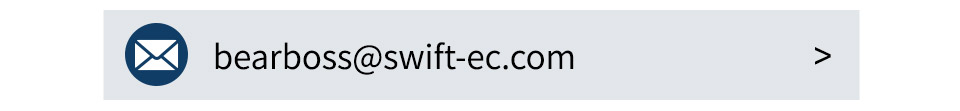
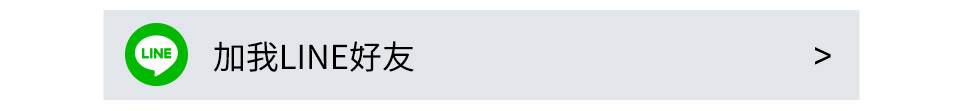
加LINE

Changed region(s): [[0.125, 0.1892, 0.625, 0.7838]]

diff --git a/index.html b/index.html
@@ -15,7 +15,7 @@
 		
 		<div class="content">
 			<div class="item">
-				<a href="mailto:bearboss@swift-ec.com"><img src="images/vcard_02.jpg"></a>
+				<a href="https://line.me/ti/p/383wMqzasK"><img src="images/vcard_02.jpg"></a>
 			</div>
 			<div class="item">
 				<a href="https://www.swift-ec.com"><img src="images/vcard_03.jpg"></a>
